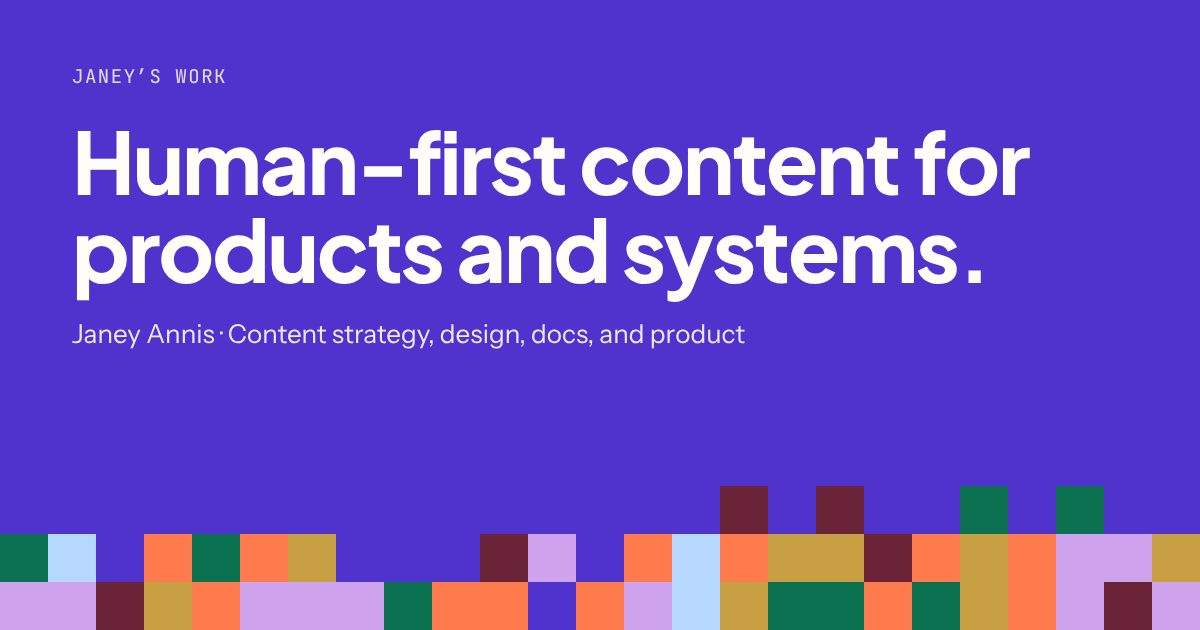
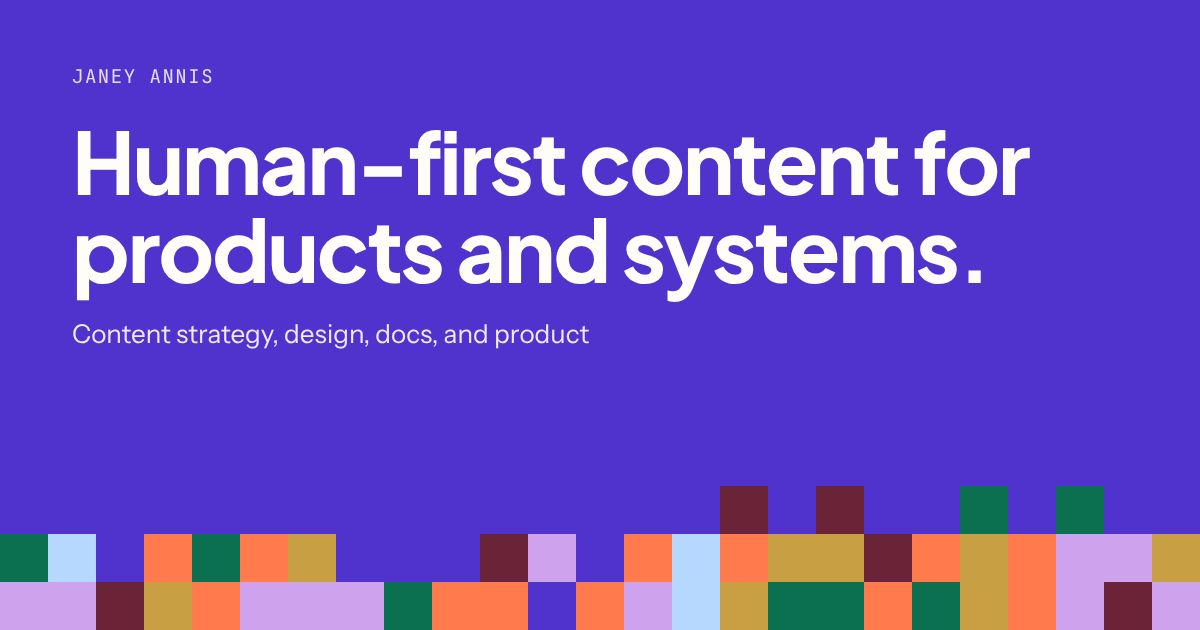
Link previews: show Janey Annis instead of Janey’s Work
Claude-Session: https://claude.ai/code/session_01CES4MxNcGYPvVgqTCFYaUm

Changed region(s): [[0.0617, 0.5127, 0.6167, 0.573], [0.1233, 0.0905, 0.185, 0.1508]]

diff --git a/scripts/og/og-services.html b/scripts/og/og-services.html
@@ -23,7 +23,7 @@ const mound=(c,n,r,s)=>Math.max(0,Math.round(r*Math.sin(Math.PI*(c+0.5)/n)*0.9+(
 const stair=(c,n,r,s)=>Math.max(0,Math.min(r,Math.floor((c/n)*5+1)*Math.ceil(r/5)-(mix(c,s)<0.25?1:0)));
 </script><style>body{background:#4f33cc;color:#fffdf8}</style>
 <div style="position:absolute;left:72px;top:64px;width:1000px">
-<p class=mono style="color:#e6dcff">Janey’s Work</p>
+<p class=mono style="color:#e6dcff">Janey Annis</p>
 <h1 style="font-size:86px;margin-top:28px">Human-first content for products and systems.</h1>
-<p style="font-size:26px;color:#efe8ff;margin-top:26px">Janey Annis · Content strategy, design, docs, and product</p></div>
+<p style="font-size:26px;color:#efe8ff;margin-top:26px">Content strategy, design, docs, and product</p></div>
 <i id=a></i><script>art('a',25,3,48,(c,n,r,s)=>Math.max(1,Math.round(1+mix(c,s)*2.2)),['#ff7b4d','#cfa2ed','#0b704f','#c99f43','#b6d8fe','#6b2337'],9,0,486)</script>

diff --git a/scripts/og/og-case-study.html b/scripts/og/og-case-study.html
@@ -25,5 +25,5 @@ const stair=(c,n,r,s)=>Math.max(0,Math.min(r,Math.floor((c/n)*5+1)*Math.ceil(r/5
 <div style="position:absolute;left:72px;top:110px;width:760px">
 <h1 style="font-size:76px"><span style="display:block">Clarity for people.</span><span style="display:block;color:var(--accent)">Structure for machines.</span></h1>
 <p style="font-size:26px;margin-top:40px;line-height:1.4">Content strategy, content design, documentation, and product management.</p>
-<p class=mono style="margin-top:46px;color:var(--muted)">Janey’s Work · Janey Annis</p></div>
+<p class=mono style="margin-top:46px;color:var(--muted)">Janey Annis</p></div>
 <i id=a></i><script>art('a',7,13,48,mound,P,13,864,6)</script>
